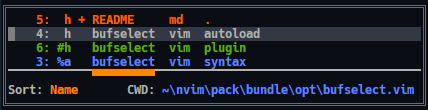
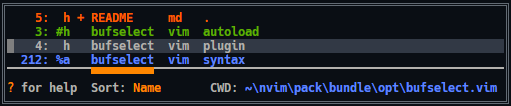
Preview Keys and Better Help (#22)
* Refactor the logic to close and reopen the window.

I thought I could have rewritten the code to keep the window open and
just resize or move it as needed, but this proved to be harder than
anticipated. Instead I DRYed up the logic so that the window is closed
(if it already exists) every time as part of the OpenBufSelectWindow
logic.

* Remove unnecessary function calls. Size is already set.

* Add preview mode mappings for o,s,v, and t to keep BufSelect open.

* Put the help text inside the BufSelect window.

Doing this keeps the information in front of the user when it may be
needed most. It's also a bit more polished.

* Make delete commands work silently.

* Use the literal dictionary syntax

* Make preview-mode key mappings configurable.

Instead of just prefixing the non-preview mode keys with a `g`, the
preview-mode key mapping can explicitly be designated. The `g` prefix is
still the default value.

* Change divider between keys and description in help text.

* Fix regression error when wiping out the only window's buffer.

This happens when you have multiple tabs, and the current one has only
one window with the buffer you want to wipe out. Neovim won't let you
close that tab (which happens when wiping out its buffer) if a floating
is open. So to fix that I needed to partially reinstate the code I
refactored in an earlier commit, in the CloseBuffer function.

* Fix regression error in SelectByNumber, and improve its logic.
[…]

diff --git a/README.md b/README.md
@@ -2,13 +2,13 @@
 
 ## Summary
 
-![image](media/darkScreenshot.png) &nbsp;&nbsp;&nbsp;&nbsp;&nbsp; ![image](media/lightScreenshot.png)
+**BufSelect** is a minimalist buffer switcher plugin for Vim or Neovim. It was inspired by [bufexplorer](https://github.com/jlanzarotta/bufexplorer) and [buffergator](https://github.com/jeetsukumaran/vim-buffergator), but with some of their advanced functionality removed. What **BufSelect** ended up being is:
 
-**BufSelect** is a minimalist buffer switcher plugin for Vim or Neovim. It is a much lighter-weight alternative to [bufexplorer](https://github.com/jlanzarotta/bufexplorer) and [buffergator](https://github.com/jeetsukumaran/vim-buffergator), both of which I'd used in the past. To achieve this, I removed functionality I didn't really find necessary. What it ended up being is:
-
-* A single command to kick things off (`:ShowBufferList`).
-* A simple list showing, in a floating window, the buffer number, filename, and relative path of all listed buffers. The buffer list is generated each time the command is called, rather than being maintained behind the scenes with autocommands. This simplifies the code considerably.
-* A few key mappings to open and delete buffers, sort the list, change working directory, and quickly move between buffers.
+* A [single command](#command) to kick things off.
+* A simple list in a floating window, showing the buffer number, filename, and relative path of all listed buffers. The list is generated each time **BufSelect** is displayed, thereby simplifying the code considerably.
+![image](media/darkScreenshot.png)
+* A few [key mappings](#key-mappings) to open and delete buffers, sort the list, change working directory, and quickly move between buffers.
+* Other settings define [sort order](#sort-order) and [custom highlighting](#custom-highlighting).
 
 ## Installation
 
@@ -30,27 +30,36 @@ nnoremap <silent> <leader>b :ShowBufferList<CR>
 ## Settings
 ### Key Mappings
 
-The following key mappings are used only within **BufSelect**.
+These key mappings are used only within **BufSelect**. Some are configurable, while others are fixed.
 
-The first group are configurable by changing the value in the global variables. The default values are shown here, and only the keys you want to change need to be included in your `.vimrc`.
-
+#### Configurable
+The mappings' corresponding variables and default values are shown here. Only the keys you want to change need to be included in your `.vimrc`. By default, preview mode mappings prepend the letter <kbd>g</kbd> to the corresponding non-preview mappings.
 ```vim
-let g:BufSelectKeyOpen         = 'o'  " Open the buffer in the current window.
-let g:BufSelectKeySplit        = 's'  " Open the buffer in a new horzontal split.
-let g:BufSelectKeyVSplit       = 'v'  " Open the buffer in a new vertical split.
-let g:BufSelectKeyTab          = 't'  " Open the buffer in a new tab.
-let g:BufSelectKeyDeleteBuffer = 'x'  " Close the buffer using vim's bwipeout command.
-let g:BufSelectKeySort         = 'S'  " Change the sort order.
-let g:BufSelectKeyChDir        = 'cd' " Change working directory to match the buffer's
-let g:BufSelectKeyChDirUp      = '..' " Change working directory up one level from current
-let g:BufSelectKeySelectOpen   = '#'  " Move cursor to the next listed open buffer,
-let g:BufSelectKeyExit         = 'q'  " Exit the buffer list.
+let g:BufSelectKeyOpen          = 'o'  " Open the buffer in the current window.
+let g:BufSelectKeySplit         = 's'  " Open the buffer in a new horzontal split.
+let g:BufSelectKeyVSplit        = 'v'  " Open the buffer in a new vertical split.
+let g:BufSelectKeyTab           = 't'  " Open the buffer in a new tab.
+
+let g:BufSelectKeyPreviewOpen   = 'go'  " Preview the buffer in the current window, keeping BufSelect open.
+let g:BufSelectKeyPreviewSplit  = 'gs'  " Preview the buffer in a new horzontal split, keeping BufSelect open.
+let g:BufSelectKeyPreviewVSplit = 'gv'  " Preview the buffer in a new vertical split, keeping BufSelect open.
+let g:BufSelectKeyPreviewTab    = 'gt'  " Preview the buffer in a new tab, keeping BufSelect open.
+
+let g:BufSelectKeyDeleteBuffer  = 'x'  " Close the buffer using vim's bwipeout command.
+let g:BufSelectKeySort          = 'S'  " Change the sort order.
+let g:BufSelectKeyChDir         = 'cd' " Change working directory to match the buffer's.
+let g:BufSelectKeyChDirUp       = '..' " Change working directory up one level from current.
+let g:BufSelectKeySelectOpen    = '#'  " Move cursor to the next listed open buffer.
+let g:BufSelectKeyExit          = 'q'  " Exit the buffer list.
 ```
-The following keys are not configurable.
+
+#### Fixed
 * <kbd>Enter</kbd> opens a buffer in the current window. It's the same as `g:BufSelectKeyOpen`.
 * <kbd>Esc</kbd> exits the buffer list - the same as `g:BufSelectKeyExit`.
 * <kbd>0</kbd>...<kbd>9</kbd> moves the cursor to the next buffer matching the cumulatively-typed buffer number.
-* <kbd>?</kbd> displays short descriptions of these commands.
+* <kbd>?</kbd> show/hides short descriptions of these commands.
+![image](media/lightScreenshot.png)
+
 
 ### Sort Order
 The default sort order can be set with this statement, which shows the default:
@@ -59,7 +68,7 @@ let g:BufSelectSortOrder = 'Name'
 ```
 Valid values are `'Num'`, `'Status'`, `'Name'`, `'Extension'`, and `'Path'`.
 
-`'Status'` refers to whether or not that buffer is loaded into Vim. See `:help :ls`, which states:
+`'Status'` refers to whether or not that buffer is loaded or visible. See `:help :ls`, which states:
 
 * `a` an active buffer: it is loaded and visible
 * `h` a hidden buffer: it is loaded, but currently not displayed in a window
